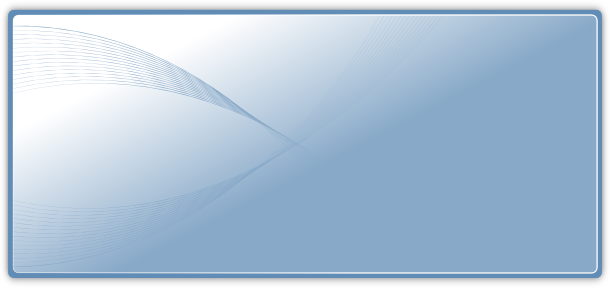
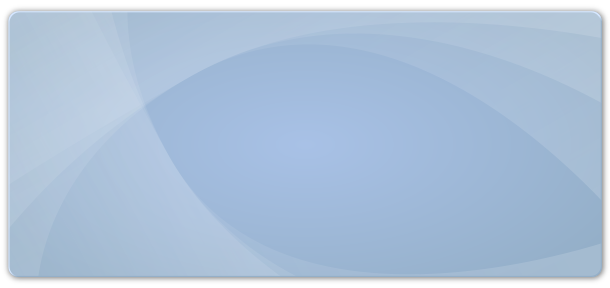
..F....... [ZBX-7065] changed the design of the login form

diff --git a/ZBX-7065/frontends/php/styles/pages.css b/ZBX-7065/frontends/php/styles/pages.css
@@ -199,10 +199,10 @@ div.trigger_displaying_form_col { width: 12em; zoom: 1; *display: inline; }
 /* login */
 .loginBG { background: #AABBCC url(../images/gradients/texture_diagonal.gif); }
 .loginForm {
-	margin: auto; padding: 15px; height: 260px; width: 582px; *position: relative; *top: -50%;
+	margin: -10% auto; padding: 15px; height: 260px; width: 582px; *position: relative; *top: -50%;
 	background: url(../images/general/login/background.png) no-repeat;
 }
-.loginLogo { height: 53px; width: 163px; background: url(../images/general/login/logo.png) no-repeat; }
+.loginLogo { height: 51px; width: 162px; background: url(../images/general/login/logo.png) no-repeat; }
 
 /* browserwarning */
 .browserwarningBG { background: #AABBCC url(../images/gradients/texture_diagonal.gif); }

diff --git a/ZBX-7065/frontends/php/include/views/general.login.php b/ZBX-7065/frontends/php/include/views/general.login.php
@@ -34,7 +34,7 @@ require_once dirname(__FILE__).'/../page_header.php';
 	<div style="display: table; position: absolute; height: 99%; width: 99%;">
 		<div class="vertical-middle">
 			<div class="loginForm">
-				<div style="position: relative; color: #F0F0F0; height: 100%;">
+				<div style="position: relative; color: #FFF; height: 100%;">
 					<!-- Help & Support -->
 					<div style="position: absolute; top: 0px; right: 10px;">
 						<a class="highlight" href="http://www.zabbix.com/documentation"><?php echo _('Help'); ?></a>
@@ -44,9 +44,9 @@ require_once dirname(__FILE__).'/../page_header.php';
 
 					<!-- Copyright -->
 					<div style="float: left; width: 250px; height: 100%;">
-						<div style="position: absolute; top: 39%; left: 2%;" class="loginLogo"></div>
+						<div style="position: absolute; top: 39%; left: 30px;" class="loginLogo"></div>
 						<div style="position: absolute; bottom: 2px;">
-							<span class="bold textwhite" style="margin: 0 0 4px 4px; font-size: 0.9em; opacity: 0.7;">
+							<span class="bold textwhite" style="margin: 0 0 4px 4px; font-size: 0.9em;">
 								<?php echo _s('Zabbix %1$s Copyright %2$s-%3$s by Zabbix SIA',
 									ZABBIX_VERSION, ZABBIX_COPYRIGHT_FROM, ZABBIX_COPYRIGHT_TO); ?>
 							</span>
